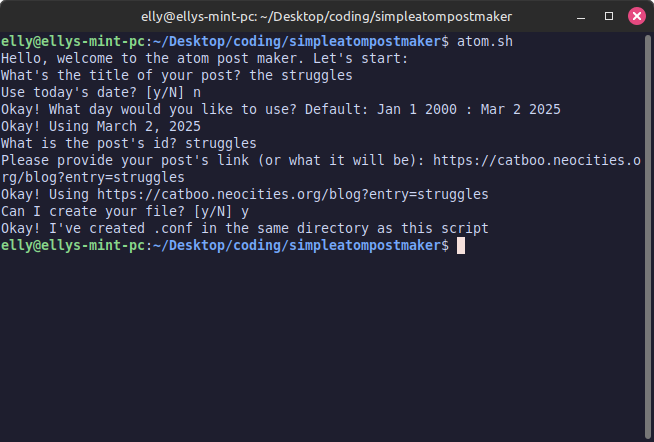
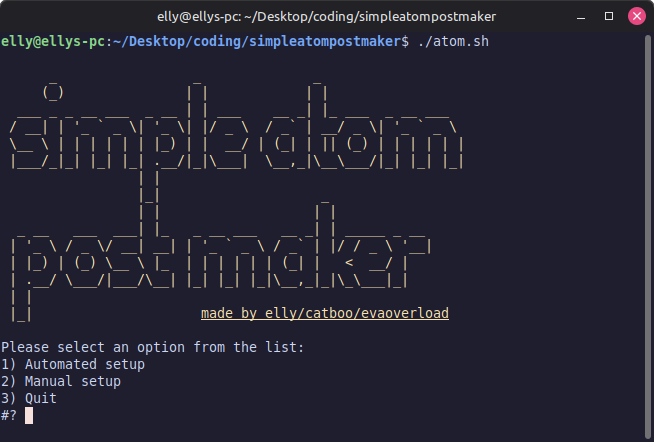
add separate mode and modify readme

diff --git a/README.md b/README.md
@@ -1,4 +1,4 @@
-# <p align="center">a simple atom post maker</p>
+# <p align="center">simple atom post maker</p>
 
 <p align="center">
   <img src="picture.png" alt="preview of the script in the linux cli"/>
@@ -7,23 +7,31 @@ it's what the title says! sapm (acronym) is written in bash by someone who knows
     
 ## 🛠 features 
 - generates an atom post*
-- customizable templates & config files
-- easily swappable `content.html` for easier post making
+- automatic and manual mode
+- swappable `content.html` for easier post making
+- template file so you can easily create one of your own
 
 > *you still need to copy and paste it to your atom file
 
 ## requirements
 - be running linux
 - be running macos (untested)
-<!-- windows can't really run bash r.i.p.  -->
+- be running windows with bash support (untested)
 
 ## 💡 usage
-1. make your `content.html`
-2. run `atom.sh` and create your `atom.conf` file
-3. configure your `atom.tpl`
-4. configure your `author.conf`
-5. run `make.sh`
-6. copy the contents of `out.txt` to your `.atom` file
+### automatic setup
+1. customize `configs/auto.conf`*
+2. place your text post content into `content.html`
+3. configure your `configs/atom.tpl`
+4. run `atom.sh` and select option `1`
+5. copy the contents of `output/out.txt` to your `.atom` file
+
+## manual setup
+1. make your `configs/content.html`
+2. configure your `configs/atom.tpl`
+3. run `atom.sh` and select option `2`
+4. go through the setup
+5. copy the contents of `output/out.txt` to your `.atom` file
 
 ### 💻 about `content.html`
 i decided to use a `.html` since it still allowed me to see if the syntax was correct. please still format it to xhtml standarts, or else the feed readers will freak out. keep in mind the syntax the readers accept, as well
@@ -33,22 +41,21 @@ this is your atom template! configure to your heart's content. there's a single 
 i have it set up as this string:
 
 ```
-tag:catboo.neocities.org,${IDDATE}:/blog-${ID}
+tag:example.com,${IDDATE}:/blog-${ID}
 ```
-which would look something like this:
+which, with the data included on `configs/auto.conf`, would look like this:
 ```
-tag:catboo.neocities.org,2025-07-03:/blog-catboobday
+tag:example.com,2000-01-01:/blog-test
 ```
 my template is the following:
-- always start with tag:
-- after tag, goes the html
-- after the first `/`, goes a `,` and today's date, followed by a :
-- the rest of the url goes after the date*
-- replace `#`* with `-`
-> i used to use ids to refer to my blog posts, so this is half true... my urls usually include `?entry=` instead of that now
+- always start with `tag:`
+- after tag, goes the site's url
+- after the first `/`, goes a `,` and today's date in `yyyy-mm-dd` format, followed by a `:`
+- page name, in the example above `/blog`, goes after the date
+- then `-` and the post id
   
 ## 🍰 contributing    
-contributions are greatly appreciated since this might not be very functional, especially on macos
+contributions are greatly appreciated since this might work on your end, especially if you're on macos or windows
         
 ## ➤ license
 distributed under the MIT license. see [LICENSE](LICENSE) for more information.
